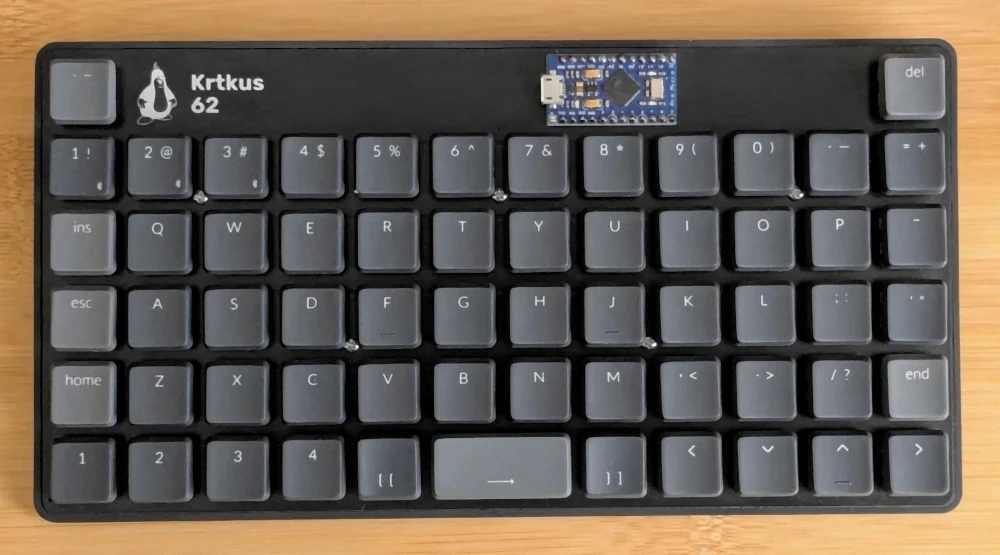
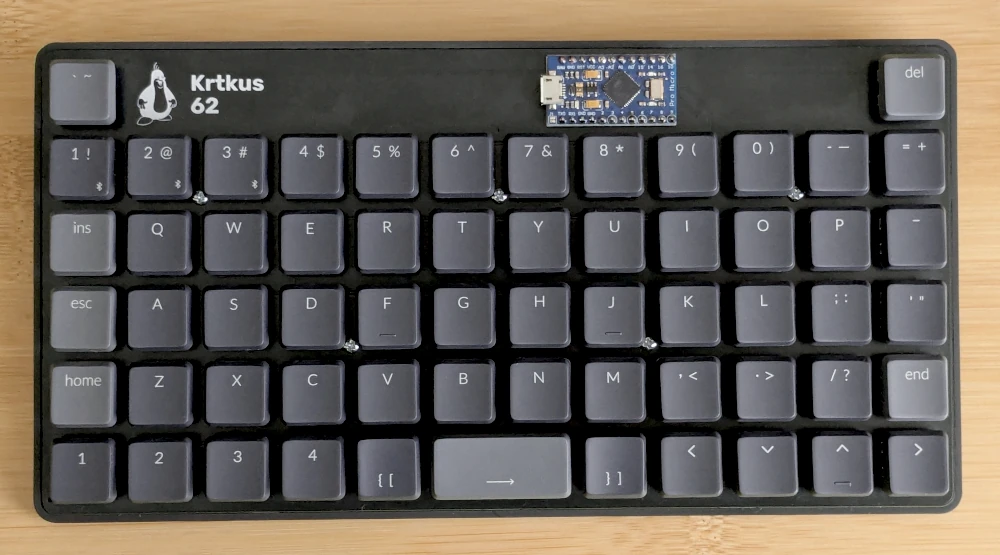
readme

diff --git a/README.md b/README.md
@@ -28,7 +28,7 @@ Connecting the keyboard to [usevia.app](https://usevia.app) requires manually up
 | <a href="https://raw.githubusercontent.com/swift502/Krtkus/refs/heads/main/images/build_2.webp"><img src="images/build_2.webp" width="200px"></a> | Keychron LSA ABS | KS-33 Brown | JLC Black Resin | Legacy | Caterina |
 | <a href="https://raw.githubusercontent.com/swift502/Krtkus/refs/heads/main/images/build_3.webp"><img src="images/build_3.webp" width="200px"></a> | Keychron LSA PBT | KS-33 Red | 9600 Resin | Legacy | Caterina |
 | <a href="https://raw.githubusercontent.com/swift502/Krtkus/refs/heads/main/images/build_4.webp"><img src="images/build_4.webp" width="200px"></a> | Keychron LSA ABS | KS-33 Brown | Black Resin | Standard | Atmel DFU |
-| <a href="https://raw.githubusercontent.com/swift502/Krtkus/refs/heads/main/images/build_5.webp"><img src="images/build_5.webp" width="200px"></a> | Keychron LSA PBT | KS-33 Brown | Black Resin | Standard | Caterina |
+| <a href="https://raw.githubusercontent.com/swift502/Krtkus/refs/heads/main/images/build_5.webp"><img src="images/build_5.webp" width="200px"></a> | Logitech MX Mechanical Mini | KS-33 Brown | Black Resin | Standard | Caterina |
 
 ## Room for improvement
 
